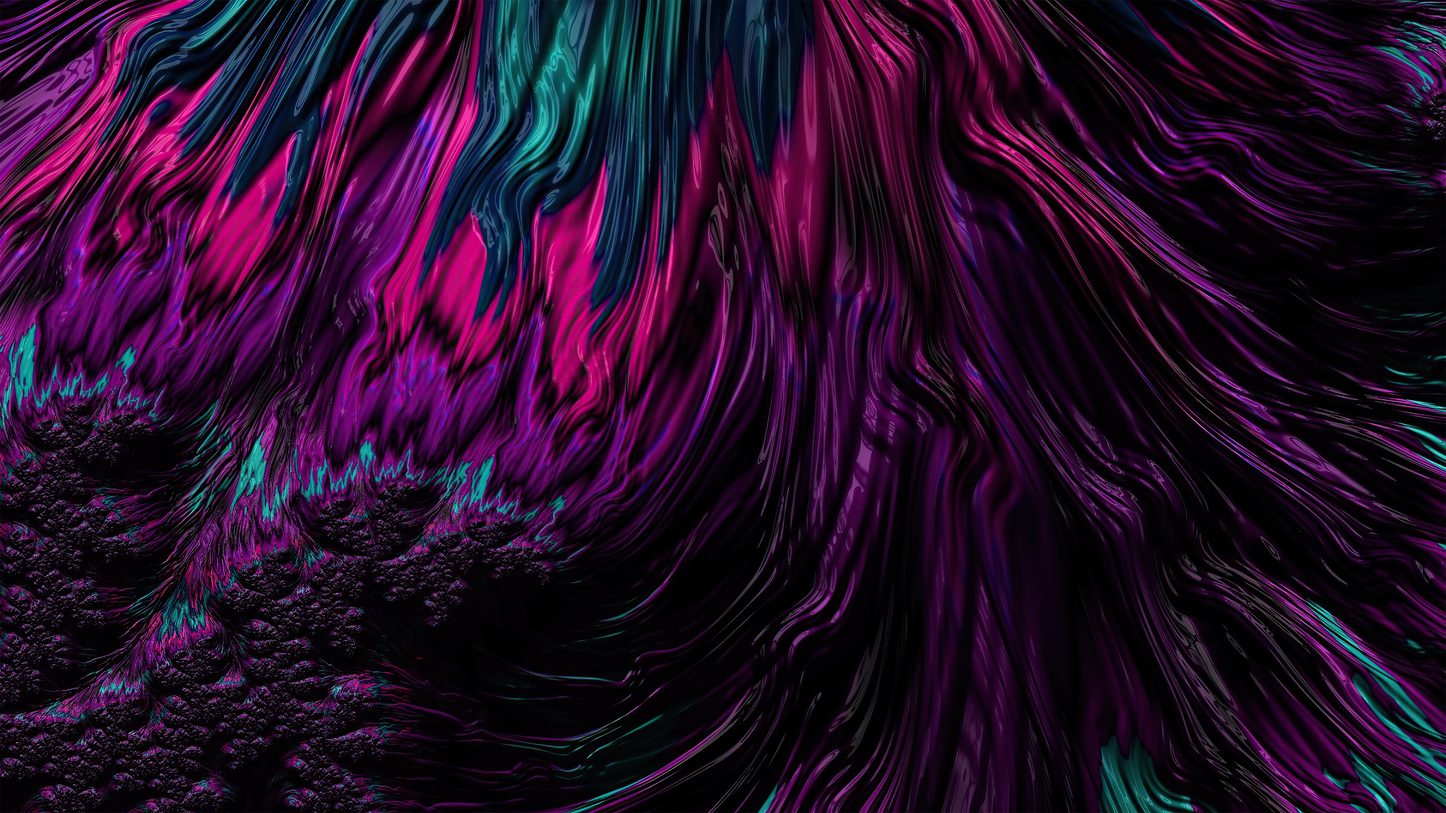
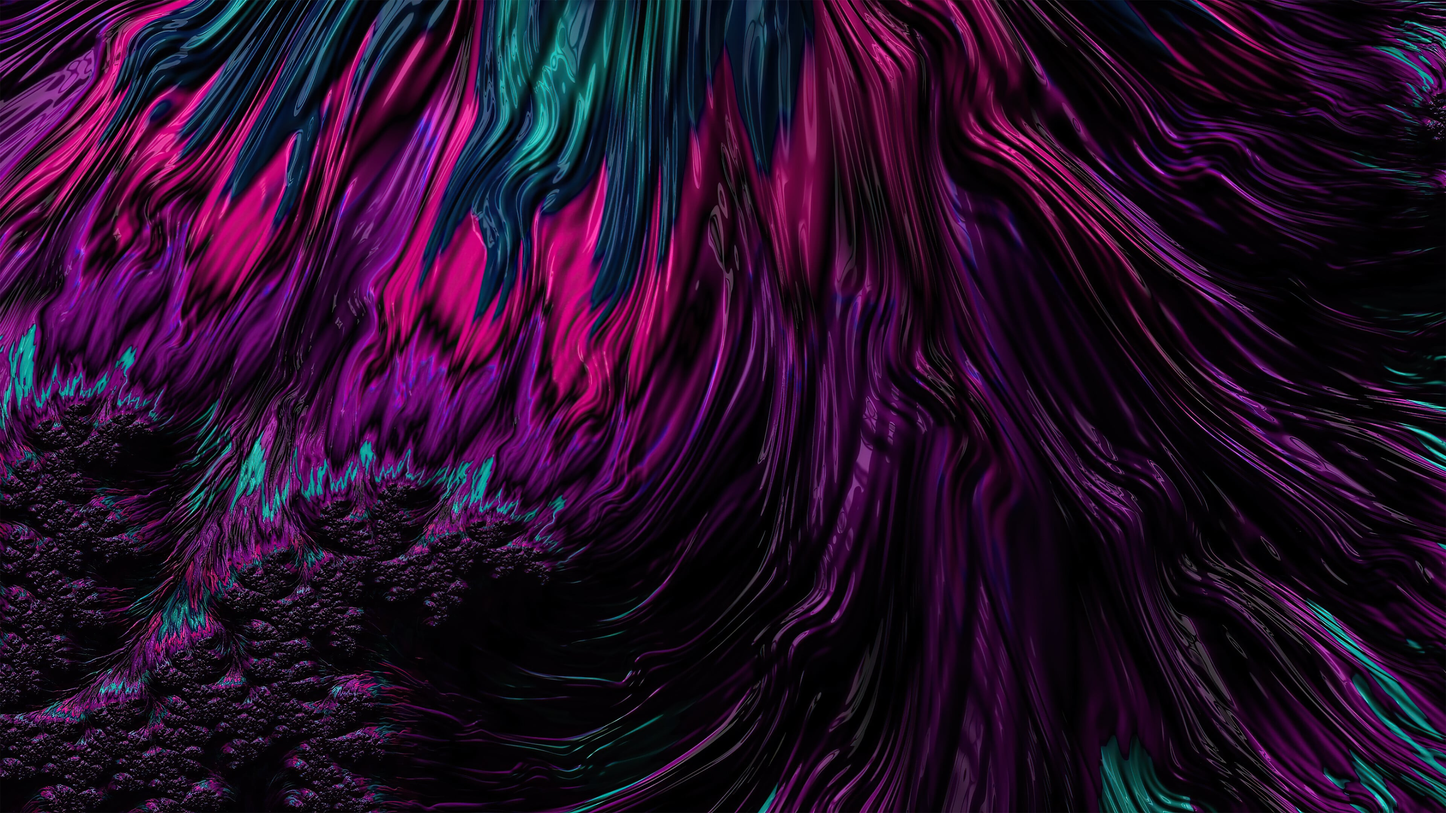
Decreasing images size

diff --git a/index.html b/index.html
@@ -1,7 +1,7 @@
 <!DOCTYPE html>
 <html>
     <head>
-        <title>Another portfolio</title>
+        <title>Main ddevigner page</title>
         <link rel="stylesheet" href="index.css">
     </head>
     <body style="height: 100vh;">
